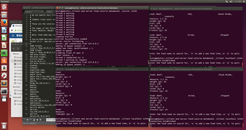
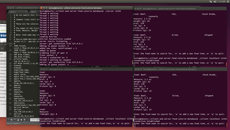
Made some style changes Edited the picture size of screenshots

diff --git a/projects.html b/projects.html
@@ -446,7 +446,7 @@ if (hs.addSlideshow) hs.addSlideshow({
 				<a href="https://bitbucket.org/Rhaistlin/airport-simulator" title="Airport Simulator Bitbucket" target="_blank">Airport Simulator Repository Click Here</a><br>
 				</p>
 
-				<b>Project Gallery: </b></p>			
+				<p><b>Project Gallery: </b></p>			
 
 					<div class="highslide-gallery">
 
@@ -518,7 +518,7 @@ if (hs.addSlideshow) hs.addSlideshow({
 				<a href="https://bitbucket.org/Rhaistlin/client-and-server-food-calorie-database" title="Food and Calorie database Bitbucket" target="_blank">Food and Calorie database Repository Click Here</a><br>
 				</p>
 				
-				<b>Project Gallery: </b></p>			
+				<p><b>Project Gallery: </b></p>			
 
 					<div class="highslide-gallery">
 

diff --git a/style.css b/style.css
@@ -90,6 +90,12 @@ ul.Back-to li {
 
 }
 
+ul.Recent-Projects li{
+
+  padding-left: 10px;
+  padding-right: 10px;
+}
+
 a.Back:link, a.Back:visited{
     padding:10px;
     text-decoration: none;
@@ -173,12 +179,13 @@ span.text{
   	cursor: pointer;
   	display: table;
   	height: 262px;
-  	left: 0;
+  	left: 11px;
   	position: absolute;
-  	top: 0;
+  	top: 1px;
   	width: 221px;
   	opacity: 0;
   	font-size: 15px;
+ 
 }
 
 span.text span {
